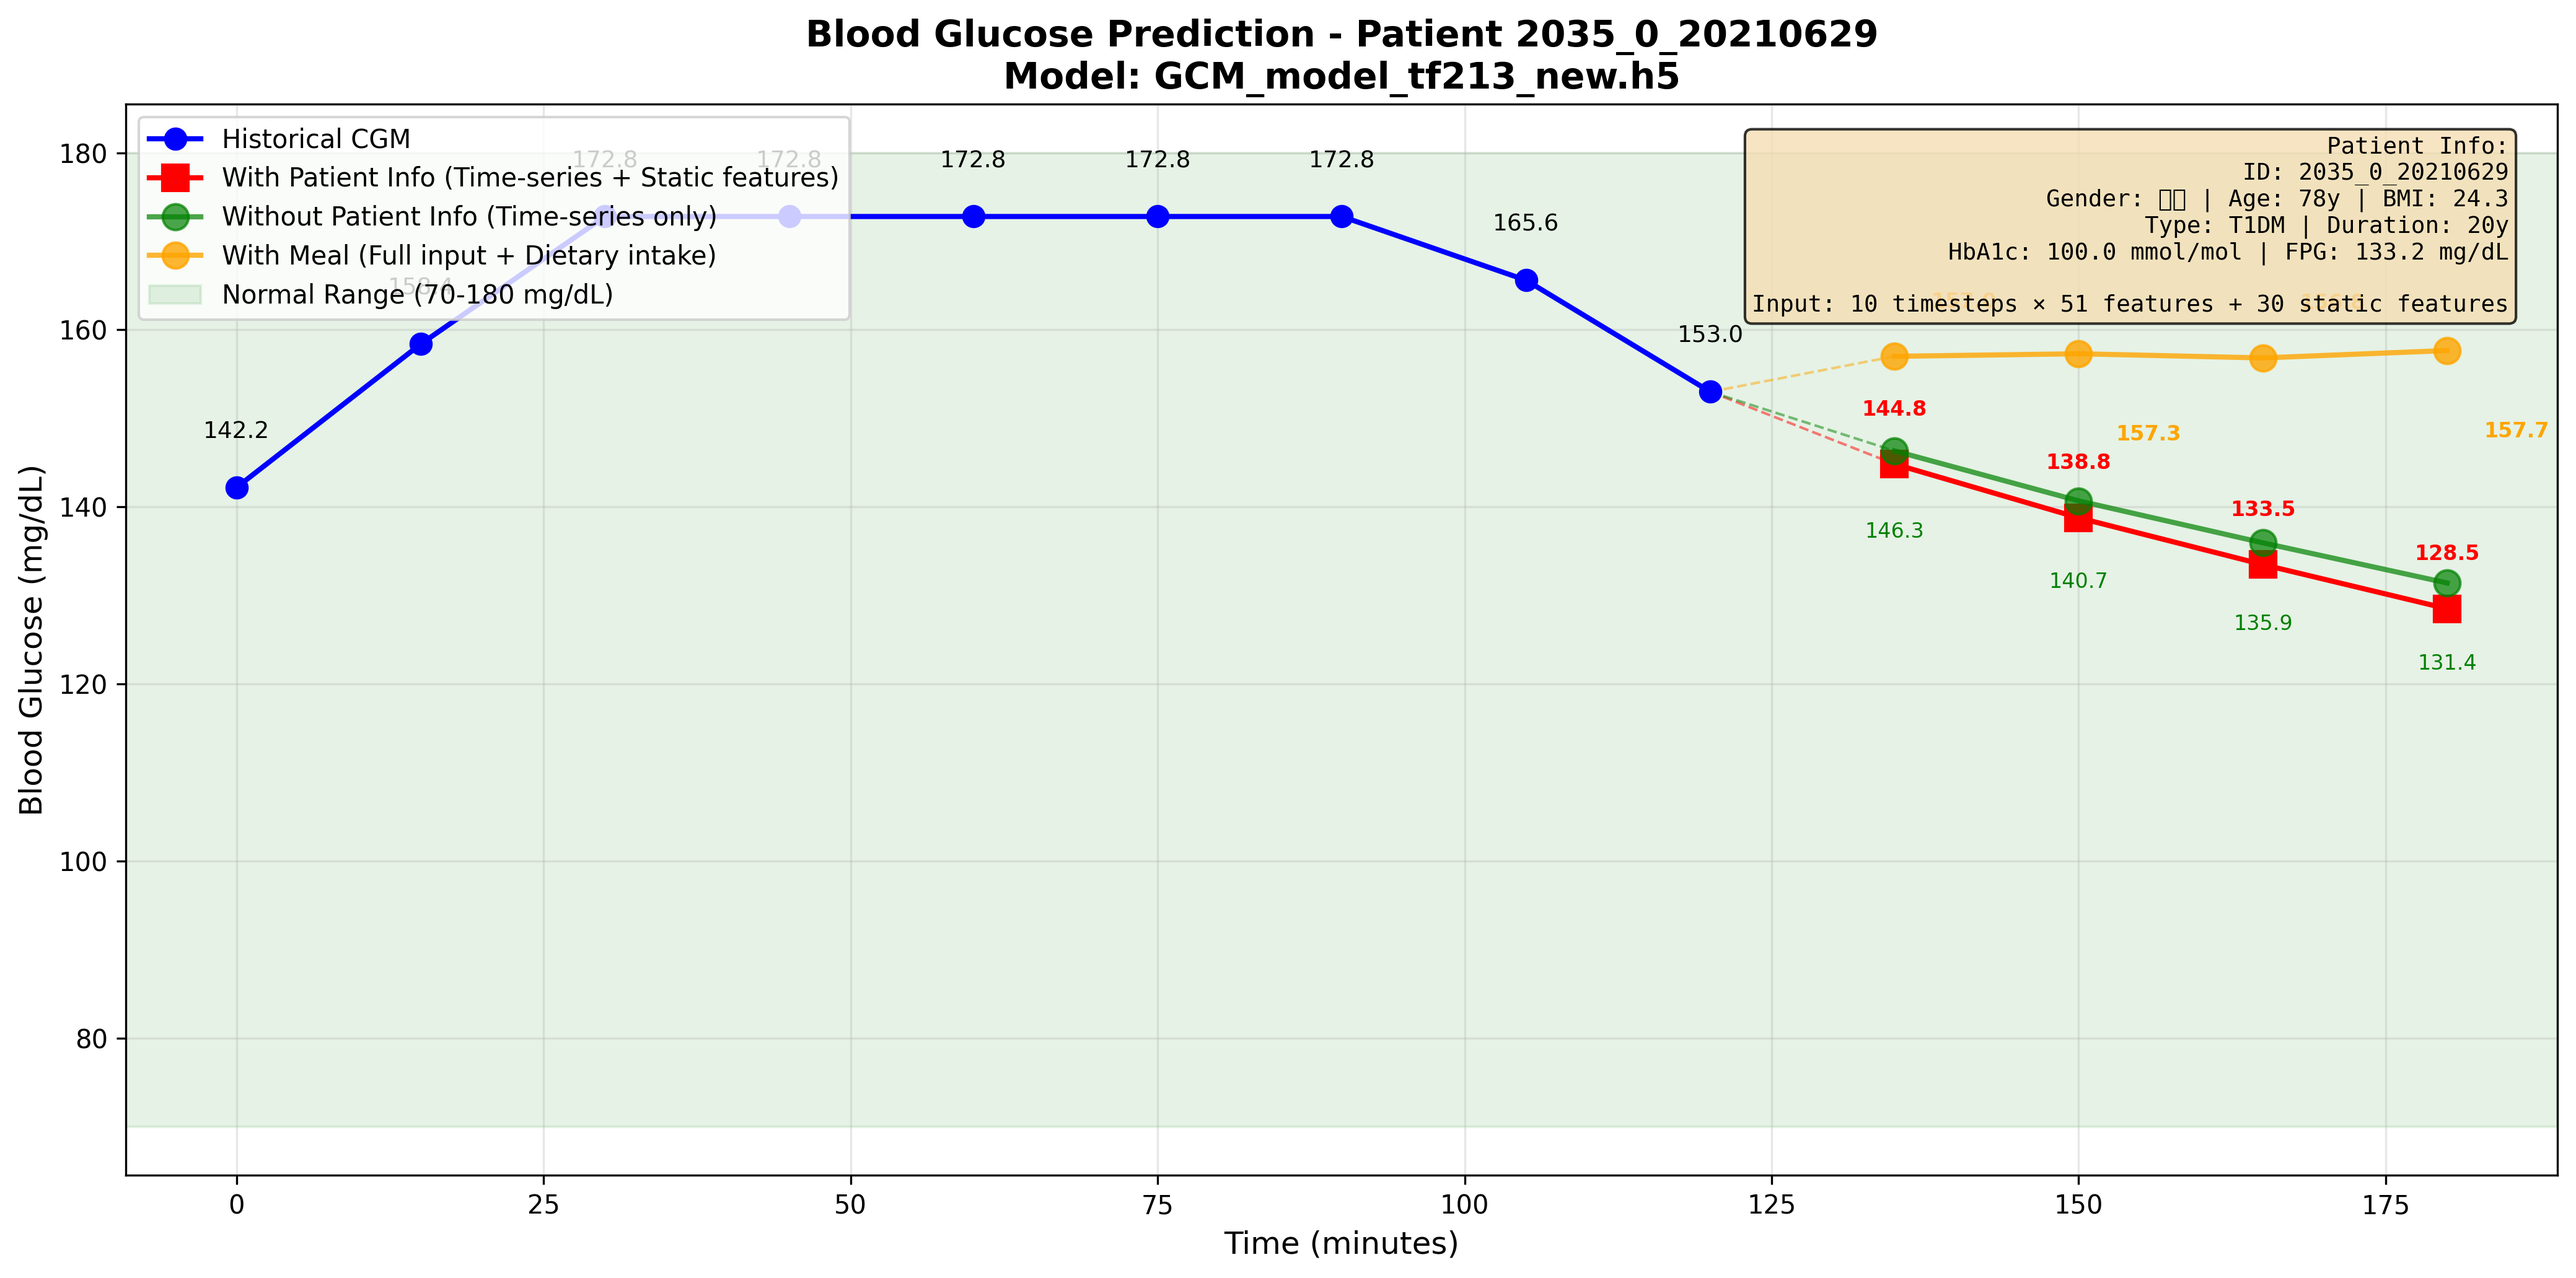
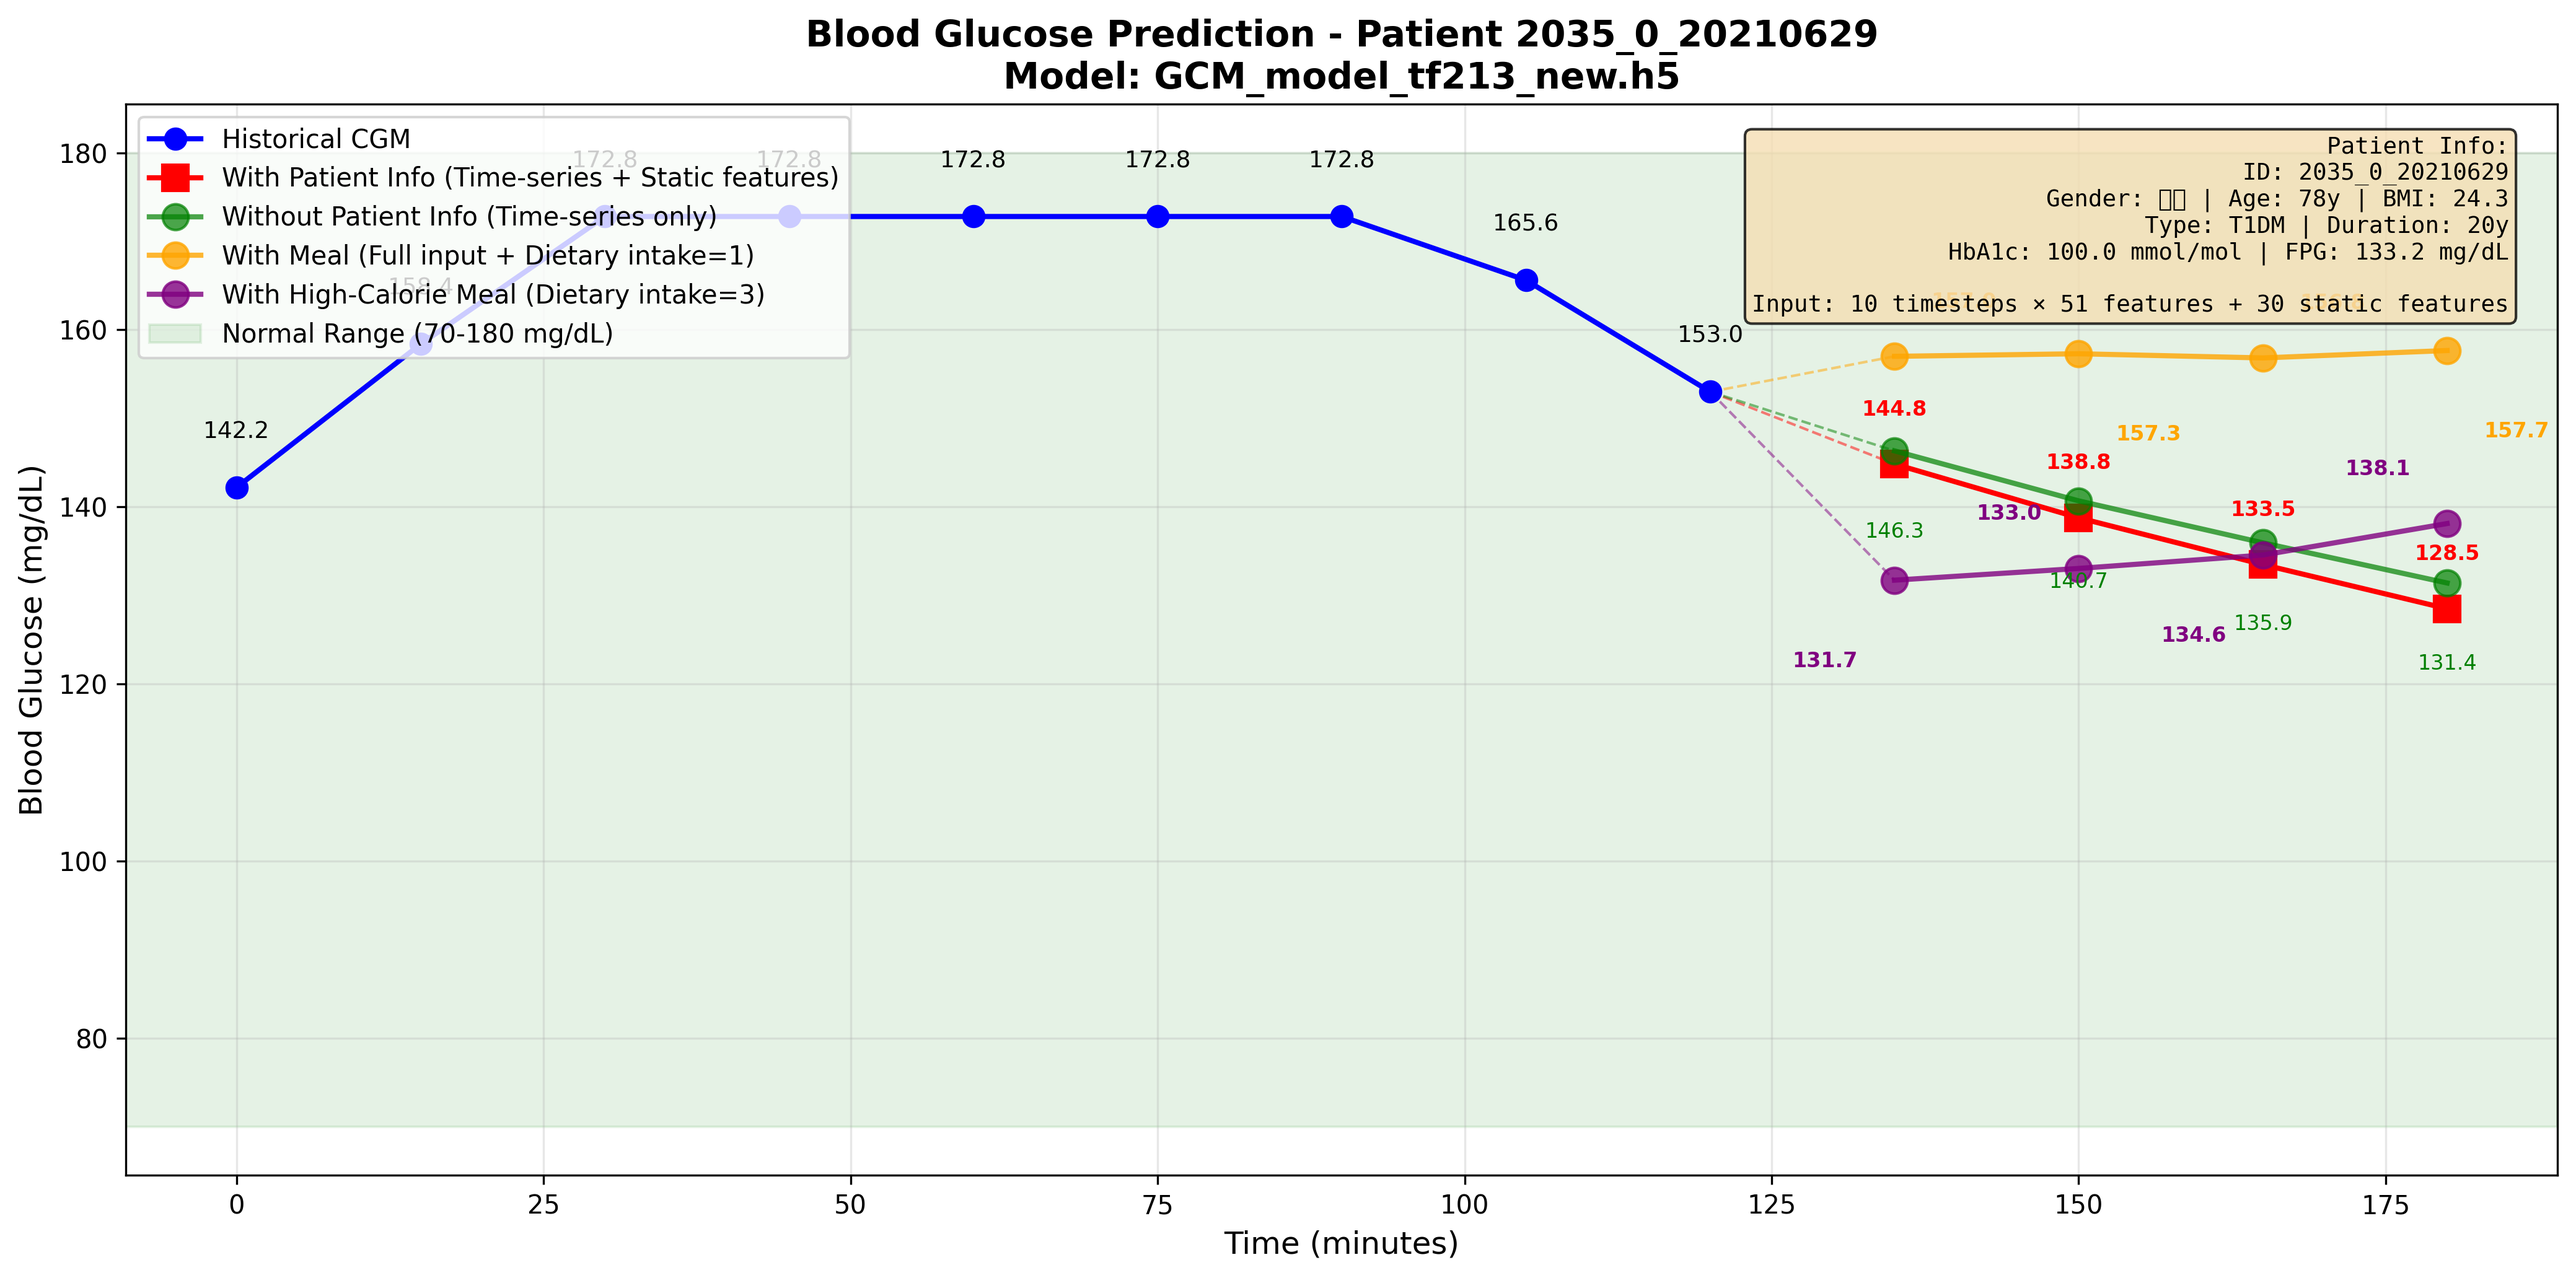
Add high-calorie meal prediction (Dietary intake=3) to all demos
- Added fourth prediction line (purple) for high-calorie meal scenario
- Set Dietary intake = 3 to simulate high-calorie meal
- Updated all three model demos with comparison of four scenarios:
  * Red: With patient info (baseline)
  * Green: Without patient info
  * Orange: Normal meal (Dietary intake=1)
  * Purple: High-calorie meal (Dietary intake=3)

Results show clear differences:
- Demo1 (GCM_model.h5): High-calorie meal causes +10 to +30 mg/dL increase
- Demo2 (GCM_model_tf213_new.h5): Shows unique pattern with initial decrease then increase
- Demo3 (TFLite): Similar to Demo1, +9 to +30 mg/dL increase

🤖 Generated with [Claude Code](https://claude.com/claude-code)

diff --git a/demo3_tflite_model.py b/demo3_tflite_model.py
@@ -233,13 +233,35 @@ print(f"    30分钟后血糖: {y_pred_meal[0][1]:.2f} mg/dL")
 print(f"    45分钟后血糖: {y_pred_meal[0][2]:.2f} mg/dL")
 print(f"    60分钟后血糖: {y_pred_meal[0][3]:.2f} mg/dL")
 
+# 预测4: 模拟高热量进餐场景（Dietary intake = 3）
+print("\n  [7.4] 模拟高热量进餐场景（Dietary intake = 3）...")
+ts_X_input_high_meal = ts_X_input.copy()
+ts_X_input_raw_high = scaler_ts_X.inverse_transform(ts_X_input_high_meal.reshape(-1, ts_X_input_high_meal.shape[-1])).reshape(ts_X_input_high_meal.shape)
+ts_X_input_raw_high[0, -1, 1] = 3.0  # 设置最后一个时间步的饮食摄入为3（高热量）
+ts_X_input_high_meal = scaler_ts_X.transform(ts_X_input_raw_high.reshape(-1, ts_X_input_raw_high.shape[-1])).reshape(ts_X_input_raw_high.shape)
+
+# TFLite需要float32
+ts_X_input_high_meal_float32 = ts_X_input_high_meal.astype(np.float32)
+interpreter.set_tensor(input_details[0]['index'], ts_X_input_high_meal_float32)
+interpreter.set_tensor(input_details[1]['index'], static_X_input_float32)
+interpreter.invoke()
+y_pred_high_meal_scaled = interpreter.get_tensor(output_details[0]['index'])
+y_pred_high_meal = scaler_y.inverse_transform(y_pred_high_meal_scaled)
+
+print("\n  高热量进餐场景预测结果:")
+print(f"    15分钟后血糖: {y_pred_high_meal[0][0]:.2f} mg/dL")
+print(f"    30分钟后血糖: {y_pred_high_meal[0][1]:.2f} mg/dL")
+print(f"    45分钟后血糖: {y_pred_high_meal[0][2]:.2f} mg/dL")
+print(f"    60分钟后血糖: {y_pred_high_meal[0][3]:.2f} mg/dL")
+
 # 计算差异
 print("\n  预测差异分析:")
 print("  vs 完整输入（无进餐）:")
 for i, time in enumerate(['15分钟', '30分钟', '45分钟', '60分钟']):
     diff1 = y_pred_full[0][i] - y_pred_no_static[0][i]
     diff2 = y_pred_meal[0][i] - y_pred_full[0][i]
-    print(f"    {time}: 患者信息影响 {diff1:+.2f} mg/dL | 进餐影响 {diff2:+.2f} mg/dL")
+    diff3 = y_pred_high_meal[0][i] - y_pred_full[0][i]
+    print(f"    {time}: 患者信息影响 {diff1:+.2f} mg/dL | 普通进餐 {diff2:+.2f} mg/dL | 高热量进餐 {diff3:+.2f} mg/dL")
 
 # 8. 可视化结果
 print("\n[8] 绘制血糖预测图...")
@@ -265,7 +287,11 @@ ax.plot(prediction_times, y_pred_no_static[0], 'go-', linewidth=2, markersize=10
 
 # 预测线3: 进餐场景（完整输入 + 饮食摄入）
 ax.plot(prediction_times, y_pred_meal[0], 'o-', color='orange', linewidth=2, markersize=10,
-         label='With Meal (Full input + Dietary intake)', zorder=3, alpha=0.8)
+         label='With Meal (Full input + Dietary intake=1)', zorder=3, alpha=0.8)
+
+# 预测线4: 高热量进餐场景（完整输入 + 高热量饮食）
+ax.plot(prediction_times, y_pred_high_meal[0], 'o-', color='purple', linewidth=2, markersize=10,
+         label='With High-Calorie Meal (Dietary intake=3)', zorder=3, alpha=0.8)
 
 # 连接线
 ax.plot([time_points[-1], prediction_times[0]], [cgm_values[-1], y_pred_full[0][0]],
@@ -274,6 +300,8 @@ ax.plot([time_points[-1], prediction_times[0]], [cgm_values[-1], y_pred_no_stati
          'g--', alpha=0.5, linewidth=1)
 ax.plot([time_points[-1], prediction_times[0]], [cgm_values[-1], y_pred_meal[0][0]],
          '--', color='orange', alpha=0.5, linewidth=1)
+ax.plot([time_points[-1], prediction_times[0]], [cgm_values[-1], y_pred_high_meal[0][0]],
+         '--', color='purple', alpha=0.5, linewidth=1)
 
 # 添加数值标签 - 历史值
 for i, (t, v) in enumerate(zip(time_points, cgm_values)):
@@ -292,6 +320,12 @@ for i, (t, v) in enumerate(zip(prediction_times, y_pred_meal[0])):
     offset = 5 if i % 2 == 0 else -8  # 交替上下避免重叠
     va = 'bottom' if offset > 0 else 'top'
     ax.text(t + 3, v + offset, f'{v:.1f}', ha='left', va=va, fontsize=8, color='orange', fontweight='bold')
+
+# 添加数值标签 - 高热量进餐场景预测
+for i, (t, v) in enumerate(zip(prediction_times, y_pred_high_meal[0])):
+    offset = -8 if i % 2 == 0 else 5  # 交替上下避免重叠，与普通进餐相反
+    va = 'top' if offset < 0 else 'bottom'
+    ax.text(t - 3, v + offset, f'{v:.1f}', ha='right', va=va, fontsize=8, color='purple', fontweight='bold')
 
 # 添加正常血糖范围阴影
 ax.axhspan(70, 180, alpha=0.1, color='green', label='Normal Range (70-180 mg/dL)')

diff --git a/demo1_gcm_model.py b/demo1_gcm_model.py
@@ -207,13 +207,30 @@ print(f"    30分钟后血糖: {y_pred_meal[0][1]:.2f} mg/dL")
 print(f"    45分钟后血糖: {y_pred_meal[0][2]:.2f} mg/dL")
 print(f"    60分钟后血糖: {y_pred_meal[0][3]:.2f} mg/dL")
 
+# 预测4: 模拟高热量进餐场景（Dietary intake = 3）
+print("\n  [7.4] 模拟高热量进餐场景（Dietary intake = 3）...")
+ts_X_input_high_meal = ts_X_input.copy()
+ts_X_input_raw_high = scaler_ts_X.inverse_transform(ts_X_input_high_meal.reshape(-1, ts_X_input_high_meal.shape[-1])).reshape(ts_X_input_high_meal.shape)
+ts_X_input_raw_high[0, -1, 1] = 3.0  # 设置最后一个时间步的饮食摄入为3（高热量）
+ts_X_input_high_meal = scaler_ts_X.transform(ts_X_input_raw_high.reshape(-1, ts_X_input_raw_high.shape[-1])).reshape(ts_X_input_raw_high.shape)
+
+y_pred_high_meal_scaled = model.predict([ts_X_input_high_meal, static_X_input], verbose=0)
+y_pred_high_meal = scaler_y.inverse_transform(y_pred_high_meal_scaled)
+
+print("\n  高热量进餐场景预测结果:")
+print(f"    15分钟后血糖: {y_pred_high_meal[0][0]:.2f} mg/dL")
+print(f"    30分钟后血糖: {y_pred_high_meal[0][1]:.2f} mg/dL")
+print(f"    45分钟后血糖: {y_pred_high_meal[0][2]:.2f} mg/dL")
+print(f"    60分钟后血糖: {y_pred_high_meal[0][3]:.2f} mg/dL")
+
 # 计算差异
 print("\n  预测差异分析:")
 print("  vs 完整输入（无进餐）:")
 for i, time in enumerate(['15分钟', '30分钟', '45分钟', '60分钟']):
     diff1 = y_pred_full[0][i] - y_pred_no_static[0][i]
     diff2 = y_pred_meal[0][i] - y_pred_full[0][i]
-    print(f"    {time}: 患者信息影响 {diff1:+.2f} mg/dL | 进餐影响 {diff2:+.2f} mg/dL")
+    diff3 = y_pred_high_meal[0][i] - y_pred_full[0][i]
+    print(f"    {time}: 患者信息影响 {diff1:+.2f} mg/dL | 普通进餐 {diff2:+.2f} mg/dL | 高热量进餐 {diff3:+.2f} mg/dL")
 
 # 8. 可视化结果
 print("\n[8] 绘制血糖预测图...")
@@ -239,7 +256,11 @@ ax.plot(prediction_times, y_pred_no_static[0], 'go-', linewidth=2, markersize=10
 
 # 预测线3: 进餐场景（完整输入 + 饮食摄入）
 ax.plot(prediction_times, y_pred_meal[0], 'o-', color='orange', linewidth=2, markersize=10,
-         label='With Meal (Full input + Dietary intake)', zorder=3, alpha=0.8)
+         label='With Meal (Full input + Dietary intake=1)', zorder=3, alpha=0.8)
+
+# 预测线4: 高热量进餐场景（完整输入 + 高热量饮食）
+ax.plot(prediction_times, y_pred_high_meal[0], 'o-', color='purple', linewidth=2, markersize=10,
+         label='With High-Calorie Meal (Dietary intake=3)', zorder=3, alpha=0.8)
 
 # 连接线
 ax.plot([time_points[-1], prediction_times[0]], [cgm_values[-1], y_pred_full[0][0]],
@@ -248,6 +269,8 @@ ax.plot([time_points[-1], prediction_times[0]], [cgm_values[-1], y_pred_no_stati
          'g--', alpha=0.5, linewidth=1)
 ax.plot([time_points[-1], prediction_times[0]], [cgm_values[-1], y_pred_meal[0][0]],
          '--', color='orange', alpha=0.5, linewidth=1)
+ax.plot([time_points[-1], prediction_times[0]], [cgm_values[-1], y_pred_high_meal[0][0]],
+         '--', color='purple', alpha=0.5, linewidth=1)
 
 # 添加数值标签 - 历史值
 for i, (t, v) in enumerate(zip(time_points, cgm_values)):
@@ -266,6 +289,12 @@ for i, (t, v) in enumerate(zip(prediction_times, y_pred_meal[0])):
     offset = 5 if i % 2 == 0 else -8  # 交替上下避免重叠
     va = 'bottom' if offset > 0 else 'top'
     ax.text(t + 3, v + offset, f'{v:.1f}', ha='left', va=va, fontsize=8, color='orange', fontweight='bold')
+
+# 添加数值标签 - 高热量进餐场景预测
+for i, (t, v) in enumerate(zip(prediction_times, y_pred_high_meal[0])):
+    offset = -8 if i % 2 == 0 else 5  # 交替上下避免重叠，与普通进餐相反
+    va = 'top' if offset < 0 else 'bottom'
+    ax.text(t - 3, v + offset, f'{v:.1f}', ha='right', va=va, fontsize=8, color='purple', fontweight='bold')
 
 # 添加正常血糖范围阴影
 ax.axhspan(70, 180, alpha=0.1, color='green', label='Normal Range (70-180 mg/dL)')

diff --git a/demo2_gcm_model_tf213.py b/demo2_gcm_model_tf213.py
@@ -207,13 +207,30 @@ print(f"    30分钟后血糖: {y_pred_meal[0][1]:.2f} mg/dL")
 print(f"    45分钟后血糖: {y_pred_meal[0][2]:.2f} mg/dL")
 print(f"    60分钟后血糖: {y_pred_meal[0][3]:.2f} mg/dL")
 
+# 预测4: 模拟高热量进餐场景（Dietary intake = 3）
+print("\n  [7.4] 模拟高热量进餐场景（Dietary intake = 3）...")
+ts_X_input_high_meal = ts_X_input.copy()
+ts_X_input_raw_high = scaler_ts_X.inverse_transform(ts_X_input_high_meal.reshape(-1, ts_X_input_high_meal.shape[-1])).reshape(ts_X_input_high_meal.shape)
+ts_X_input_raw_high[0, -1, 1] = 3.0  # 设置最后一个时间步的饮食摄入为3（高热量）
+ts_X_input_high_meal = scaler_ts_X.transform(ts_X_input_raw_high.reshape(-1, ts_X_input_raw_high.shape[-1])).reshape(ts_X_input_raw_high.shape)
+
+y_pred_high_meal_scaled = model.predict([ts_X_input_high_meal, static_X_input], verbose=0)
+y_pred_high_meal = scaler_y.inverse_transform(y_pred_high_meal_scaled)
+
+print("\n  高热量进餐场景预测结果:")
+print(f"    15分钟后血糖: {y_pred_high_meal[0][0]:.2f} mg/dL")
+print(f"    30分钟后血糖: {y_pred_high_meal[0][1]:.2f} mg/dL")
+print(f"    45分钟后血糖: {y_pred_high_meal[0][2]:.2f} mg/dL")
+print(f"    60分钟后血糖: {y_pred_high_meal[0][3]:.2f} mg/dL")
+
 # 计算差异
 print("\n  预测差异分析:")
 print("  vs 完整输入（无进餐）:")
 for i, time in enumerate(['15分钟', '30分钟', '45分钟', '60分钟']):
     diff1 = y_pred_full[0][i] - y_pred_no_static[0][i]
     diff2 = y_pred_meal[0][i] - y_pred_full[0][i]
-    print(f"    {time}: 患者信息影响 {diff1:+.2f} mg/dL | 进餐影响 {diff2:+.2f} mg/dL")
+    diff3 = y_pred_high_meal[0][i] - y_pred_full[0][i]
+    print(f"    {time}: 患者信息影响 {diff1:+.2f} mg/dL | 普通进餐 {diff2:+.2f} mg/dL | 高热量进餐 {diff3:+.2f} mg/dL")
 
 # 8. 可视化结果
 print("\n[8] 绘制血糖预测图...")
@@ -239,7 +256,11 @@ ax.plot(prediction_times, y_pred_no_static[0], 'go-', linewidth=2, markersize=10
 
 # 预测线3: 进餐场景（完整输入 + 饮食摄入）
 ax.plot(prediction_times, y_pred_meal[0], 'o-', color='orange', linewidth=2, markersize=10,
-         label='With Meal (Full input + Dietary intake)', zorder=3, alpha=0.8)
+         label='With Meal (Full input + Dietary intake=1)', zorder=3, alpha=0.8)
+
+# 预测线4: 高热量进餐场景（完整输入 + 高热量饮食）
+ax.plot(prediction_times, y_pred_high_meal[0], 'o-', color='purple', linewidth=2, markersize=10,
+         label='With High-Calorie Meal (Dietary intake=3)', zorder=3, alpha=0.8)
 
 # 连接线
 ax.plot([time_points[-1], prediction_times[0]], [cgm_values[-1], y_pred_full[0][0]],
@@ -248,6 +269,8 @@ ax.plot([time_points[-1], prediction_times[0]], [cgm_values[-1], y_pred_no_stati
          'g--', alpha=0.5, linewidth=1)
 ax.plot([time_points[-1], prediction_times[0]], [cgm_values[-1], y_pred_meal[0][0]],
          '--', color='orange', alpha=0.5, linewidth=1)
+ax.plot([time_points[-1], prediction_times[0]], [cgm_values[-1], y_pred_high_meal[0][0]],
+         '--', color='purple', alpha=0.5, linewidth=1)
 
 # 添加数值标签 - 历史值
 for i, (t, v) in enumerate(zip(time_points, cgm_values)):
@@ -266,6 +289,12 @@ for i, (t, v) in enumerate(zip(prediction_times, y_pred_meal[0])):
     offset = 5 if i % 2 == 0 else -8  # 交替上下避免重叠
     va = 'bottom' if offset > 0 else 'top'
     ax.text(t + 3, v + offset, f'{v:.1f}', ha='left', va=va, fontsize=8, color='orange', fontweight='bold')
+
+# 添加数值标签 - 高热量进餐场景预测
+for i, (t, v) in enumerate(zip(prediction_times, y_pred_high_meal[0])):
+    offset = -8 if i % 2 == 0 else 5  # 交替上下避免重叠，与普通进餐相反
+    va = 'top' if offset < 0 else 'bottom'
+    ax.text(t - 3, v + offset, f'{v:.1f}', ha='right', va=va, fontsize=8, color='purple', fontweight='bold')
 
 # 添加正常血糖范围阴影
 ax.axhspan(70, 180, alpha=0.1, color='green', label='Normal Range (70-180 mg/dL)')
